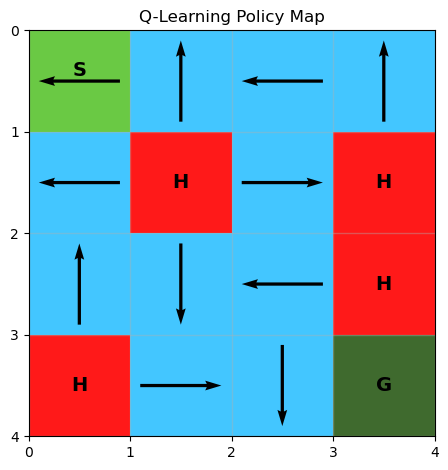
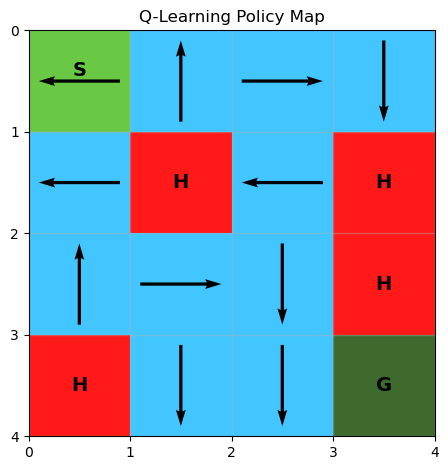
new

diff --git a/HW2_Schafer.py b/HW2_Schafer.py
@@ -18,7 +18,7 @@ print('\n')
 ## User Inputs ##
 is_slippery = True
 num_episodes = 5000
-max_steps = 100
+max_steps = 1000
 gamma = 0.95
 epsilon = 0.1
 alpha = 0.1
